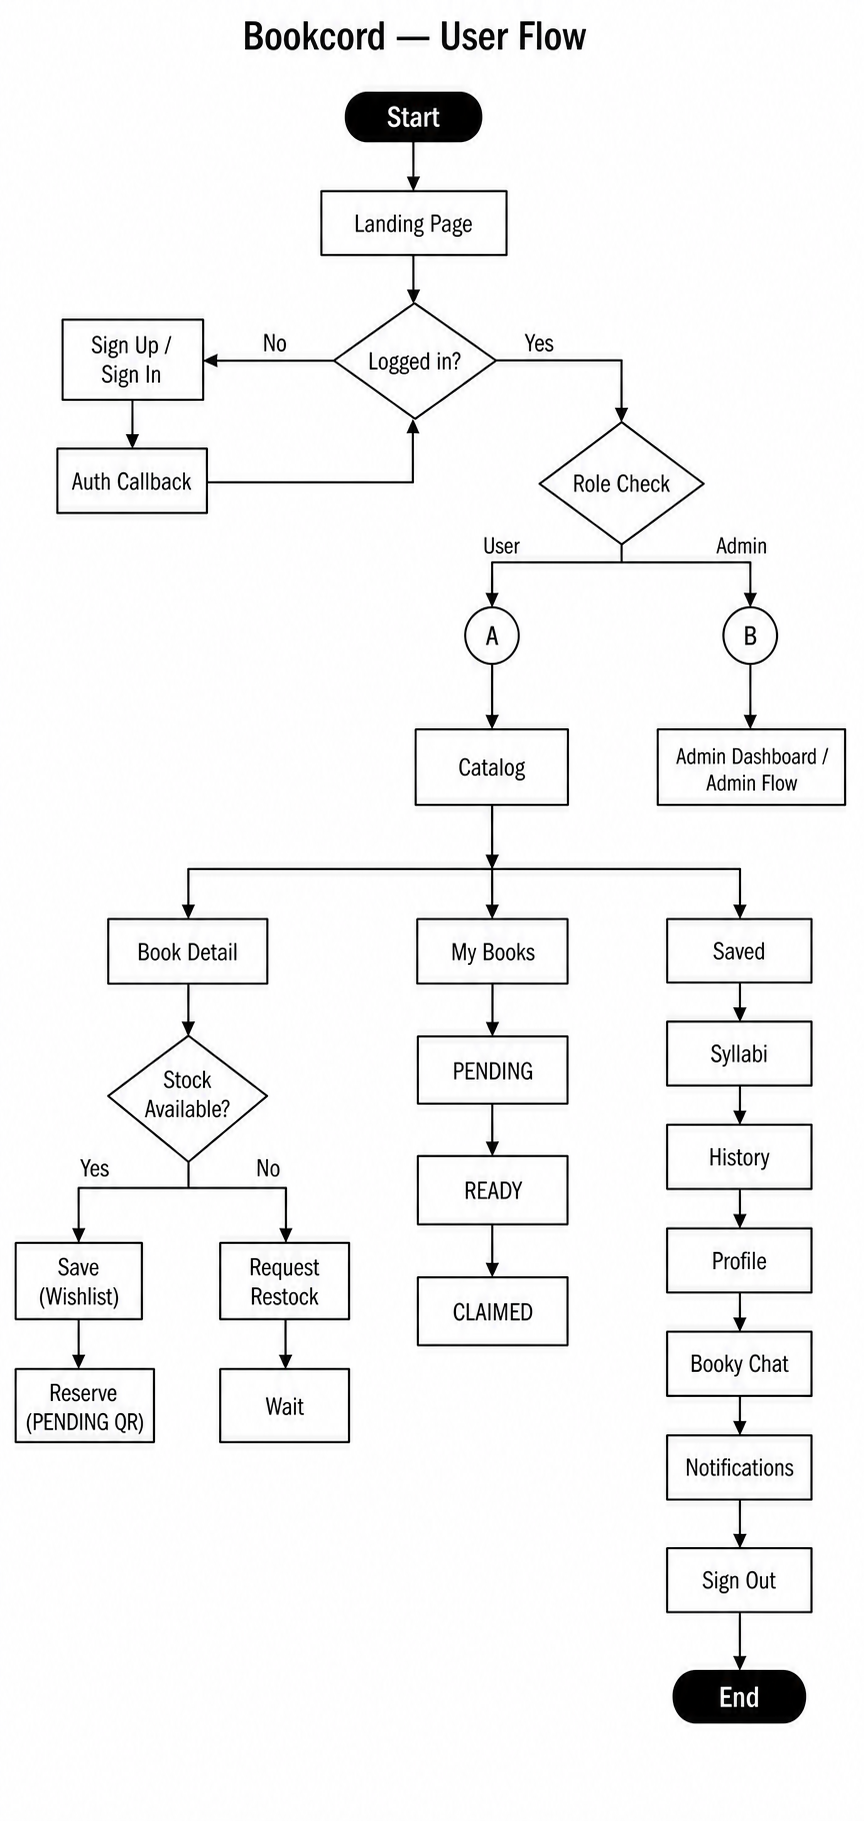
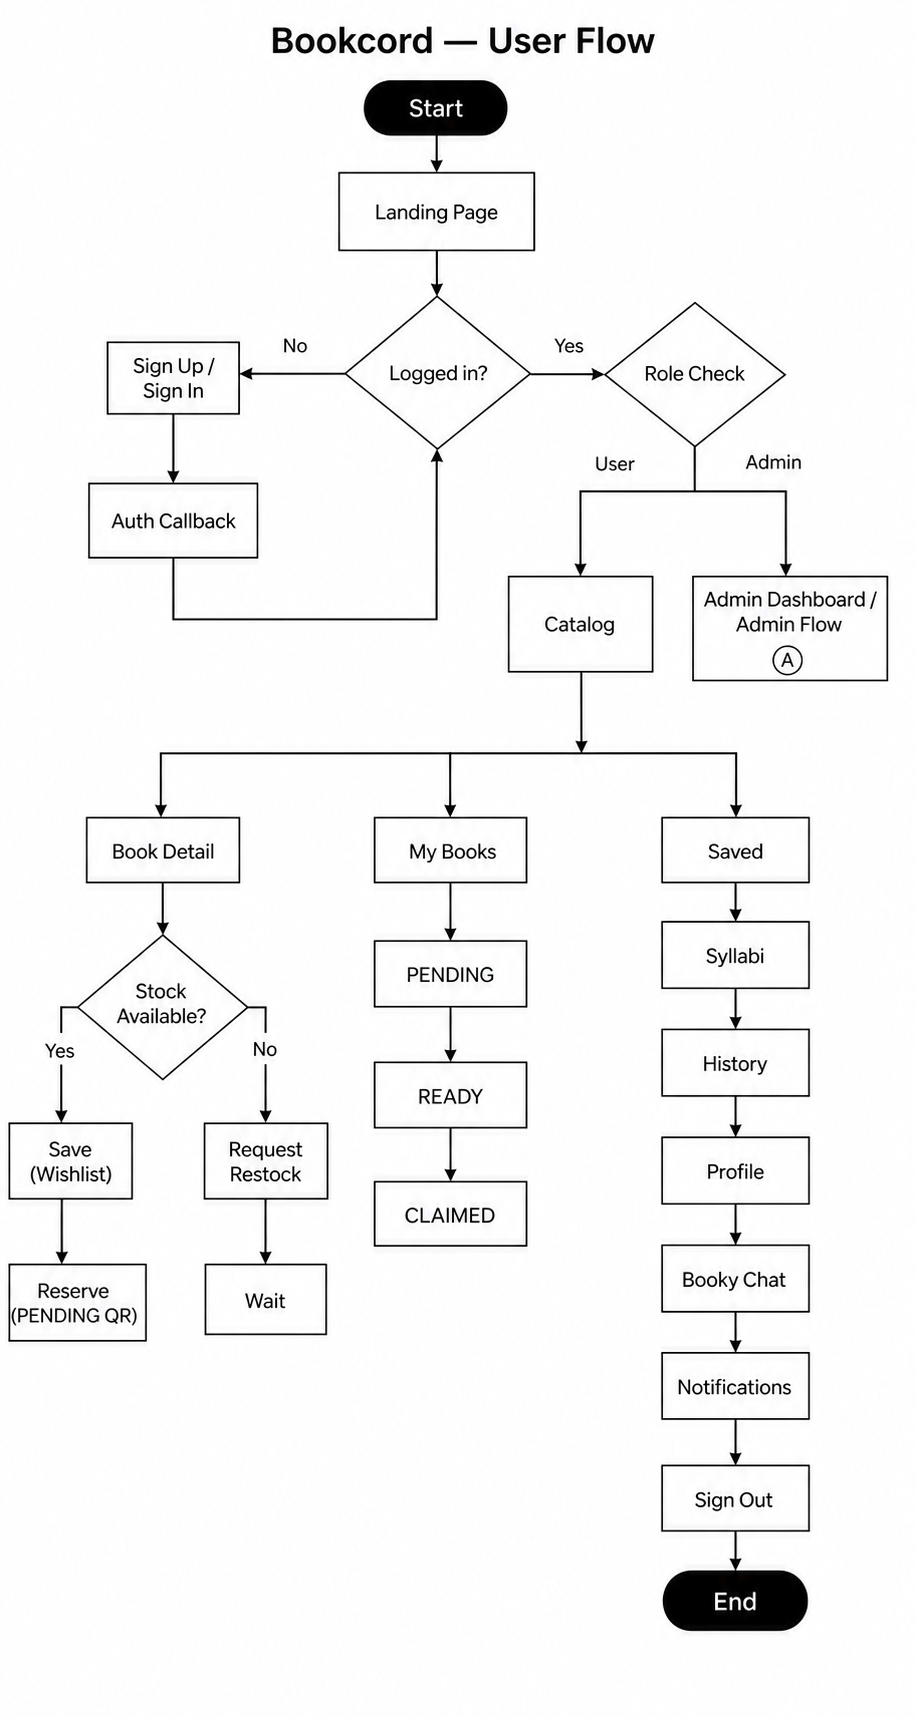
feat(flowcharts): embed letters inside dashboard nodes (A/B)
- User Flow (docs/user-flow.html + combined): remove separate A/B connector circles, now Admin Dashboard / Admin Flow rectangle contains circled A (Ⓐ) inside at bottom; Role Check --Admin--> Admin Dashboard directly, --User--> Catalog
- Admin Flow (docs/admin-flow.html + combined): Overview Dashboard rectangle now contains circled B (Ⓑ) inside; Role Check --Admin--> Dashboard, --User--> Catalog
- No other nodes/layout changed, B/W minimal style preserved
- Regenerated B/W PNGs to show A inside Admin Dashboard (User Flow) and B inside Overview Dashboard (Admin Flow)

diff --git a/Bookcord/flowcharts.html b/Bookcord/flowcharts.html
@@ -270,10 +270,8 @@ flowchart TD
     LANDING --> HAS_SESSION{Logged in<br>& session?}:::decision
     HAS_SESSION -->|No| CHOICE{Create or Sign in?}:::decision
     HAS_SESSION -->|Yes| ROLE_CHK{Role Check}:::decision
-    ROLE_CHK -->|Admin| CONN_B((B)):::connector
-    CONN_B --> TO_ADMIN[/→ /admin<br>Admin Dashboard<br>Admin Flow/]:::page
-    ROLE_CHK -->|User| CONN_A((A)):::connector
-    CONN_A --> CATALOG
+    ROLE_CHK -->|Admin| TO_ADMIN[/→ /admin<br>Admin Dashboard<br>Admin Flow<br>Ⓐ/]:::page
+    ROLE_CHK -->|User| CATALOG
 
     CHOICE -->|New student| SIGNUP[/Sign Up /signup<br>full_name • student_id • email • password<br>ICT • Grade 11/12/]:::page
     CHOICE -->|Existing| LOGIN[/Sign In /login<br>email+password / Google OAuth/]:::page
@@ -478,12 +476,10 @@ flowchart TD
     START([● Start Admin]):::start --> LOGIN[/Admin Sign In<br>/login?desk=admin<br>email • password • Google/]:::page
     LOGIN --> AUTH[/Auth Callback /auth/callback<br>updateSession middleware/]:::page
     AUTH --> GUARD{Role Check<br>requireAdmin?}:::decision
-    GUARD -->|User| CONN_A((A)):::connector
-    CONN_A --> REDIR[/→ /books<br>Catalog<br>User Flow/]:::page
-    GUARD -->|Admin| CONN_B((B)):::connector
-    CONN_B --> DASH
+    GUARD -->|User| REDIR[/→ /books<br>Catalog<br>User Flow/]:::page
+    GUARD -->|Admin| DASH
 
-    DASH[/📊 Overview /admin<br>Stat cards • Stock to watch • Latest reservations/]:::page
+    DASH[/📊 Overview /admin<br>Stat cards • Stock to watch • Latest reservations<br>Ⓑ/]:::page
     DASH --> DASH_DATA[Headlines via getAdminStats & inventory<br>Titles • On shelf • Checked out • Open/Ready<br>Attention = available ≤ minimum_stock]:::data
     DASH --> NAV{Choose desk}:::decision
 

diff --git a/Bookcord/public/docs/flowcharts.html b/Bookcord/public/docs/flowcharts.html
@@ -270,10 +270,8 @@ flowchart TD
     LANDING --> HAS_SESSION{Logged in<br>& session?}:::decision
     HAS_SESSION -->|No| CHOICE{Create or Sign in?}:::decision
     HAS_SESSION -->|Yes| ROLE_CHK{Role Check}:::decision
-    ROLE_CHK -->|Admin| CONN_B((B)):::connector
-    CONN_B --> TO_ADMIN[/→ /admin<br>Admin Dashboard<br>Admin Flow/]:::page
-    ROLE_CHK -->|User| CONN_A((A)):::connector
-    CONN_A --> CATALOG
+    ROLE_CHK -->|Admin| TO_ADMIN[/→ /admin<br>Admin Dashboard<br>Admin Flow<br>Ⓐ/]:::page
+    ROLE_CHK -->|User| CATALOG
 
     CHOICE -->|New student| SIGNUP[/Sign Up /signup<br>full_name • student_id • email • password<br>ICT • Grade 11/12/]:::page
     CHOICE -->|Existing| LOGIN[/Sign In /login<br>email+password / Google OAuth/]:::page
@@ -478,12 +476,10 @@ flowchart TD
     START([● Start Admin]):::start --> LOGIN[/Admin Sign In<br>/login?desk=admin<br>email • password • Google/]:::page
     LOGIN --> AUTH[/Auth Callback /auth/callback<br>updateSession middleware/]:::page
     AUTH --> GUARD{Role Check<br>requireAdmin?}:::decision
-    GUARD -->|User| CONN_A((A)):::connector
-    CONN_A --> REDIR[/→ /books<br>Catalog<br>User Flow/]:::page
-    GUARD -->|Admin| CONN_B((B)):::connector
-    CONN_B --> DASH
+    GUARD -->|User| REDIR[/→ /books<br>Catalog<br>User Flow/]:::page
+    GUARD -->|Admin| DASH
 
-    DASH[/📊 Overview /admin<br>Stat cards • Stock to watch • Latest reservations/]:::page
+    DASH[/📊 Overview /admin<br>Stat cards • Stock to watch • Latest reservations<br>Ⓑ/]:::page
     DASH --> DASH_DATA[Headlines via getAdminStats & inventory<br>Titles • On shelf • Checked out • Open/Ready<br>Attention = available ≤ minimum_stock]:::data
     DASH --> NAV{Choose desk}:::decision
 

diff --git a/docs/flowcharts.html b/docs/flowcharts.html
@@ -270,10 +270,8 @@ flowchart TD
     LANDING --> HAS_SESSION{Logged in<br>& session?}:::decision
     HAS_SESSION -->|No| CHOICE{Create or Sign in?}:::decision
     HAS_SESSION -->|Yes| ROLE_CHK{Role Check}:::decision
-    ROLE_CHK -->|Admin| CONN_B((B)):::connector
-    CONN_B --> TO_ADMIN[/→ /admin<br>Admin Dashboard<br>Admin Flow/]:::page
-    ROLE_CHK -->|User| CONN_A((A)):::connector
-    CONN_A --> CATALOG
+    ROLE_CHK -->|Admin| TO_ADMIN[/→ /admin<br>Admin Dashboard<br>Admin Flow<br>Ⓐ/]:::page
+    ROLE_CHK -->|User| CATALOG
 
     CHOICE -->|New student| SIGNUP[/Sign Up /signup<br>full_name • student_id • email • password<br>ICT • Grade 11/12/]:::page
     CHOICE -->|Existing| LOGIN[/Sign In /login<br>email+password / Google OAuth/]:::page
@@ -478,12 +476,10 @@ flowchart TD
     START([● Start Admin]):::start --> LOGIN[/Admin Sign In<br>/login?desk=admin<br>email • password • Google/]:::page
     LOGIN --> AUTH[/Auth Callback /auth/callback<br>updateSession middleware/]:::page
     AUTH --> GUARD{Role Check<br>requireAdmin?}:::decision
-    GUARD -->|User| CONN_A((A)):::connector
-    CONN_A --> REDIR[/→ /books<br>Catalog<br>User Flow/]:::page
-    GUARD -->|Admin| CONN_B((B)):::connector
-    CONN_B --> DASH
+    GUARD -->|User| REDIR[/→ /books<br>Catalog<br>User Flow/]:::page
+    GUARD -->|Admin| DASH
 
-    DASH[/📊 Overview /admin<br>Stat cards • Stock to watch • Latest reservations/]:::page
+    DASH[/📊 Overview /admin<br>Stat cards • Stock to watch • Latest reservations<br>Ⓑ/]:::page
     DASH --> DASH_DATA[Headlines via getAdminStats & inventory<br>Titles • On shelf • Checked out • Open/Ready<br>Attention = available ≤ minimum_stock]:::data
     DASH --> NAV{Choose desk}:::decision
 

diff --git a/Bookcord/public/docs/admin-flow.html b/Bookcord/public/docs/admin-flow.html
@@ -53,11 +53,9 @@ flowchart TD
     START([● Start Admin]):::start --> LOGIN[/Admin Sign In<br>/login?desk=admin<br>email • password • Google/]:::page
     LOGIN --> AUTH[/Auth Callback /auth/callback<br>updateSession middleware/]:::page
     AUTH --> GUARD{Role Check<br>requireAdmin?}:::decision
-    GUARD -->|User| CONN_A((A)):::connector
-    CONN_A --> REDIR[/→ /books<br>Catalog<br>User Flow/]:::page
-    GUARD -->|Admin| CONN_B((B)):::connector
-    CONN_B --> DASH
-    DASH[/📊 Overview /admin<br>Stat cards • Stock to watch • Latest reservations/]:::page
+    GUARD -->|User| REDIR[/→ /books<br>Catalog<br>User Flow/]:::page
+    GUARD -->|Admin| DASH
+    DASH[/📊 Overview /admin<br>Stat cards • Stock to watch • Latest reservations<br>Ⓑ/]:::page
     DASH --> DASH_DATA[Headlines via getAdminStats & inventory<br>Titles • On shelf • Checked out • Open/Ready<br>Attention = available ≤ minimum_stock]:::data
     DASH --> NAV{Choose desk}:::decision
     NAV -->|Manage → Inventory| INV

diff --git a/docs/admin-flow.html b/docs/admin-flow.html
@@ -53,11 +53,9 @@ flowchart TD
     START([● Start Admin]):::start --> LOGIN[/Admin Sign In<br>/login?desk=admin<br>email • password • Google/]:::page
     LOGIN --> AUTH[/Auth Callback /auth/callback<br>updateSession middleware/]:::page
     AUTH --> GUARD{Role Check<br>requireAdmin?}:::decision
-    GUARD -->|User| CONN_A((A)):::connector
-    CONN_A --> REDIR[/→ /books<br>Catalog<br>User Flow/]:::page
-    GUARD -->|Admin| CONN_B((B)):::connector
-    CONN_B --> DASH
-    DASH[/📊 Overview /admin<br>Stat cards • Stock to watch • Latest reservations/]:::page
+    GUARD -->|User| REDIR[/→ /books<br>Catalog<br>User Flow/]:::page
+    GUARD -->|Admin| DASH
+    DASH[/📊 Overview /admin<br>Stat cards • Stock to watch • Latest reservations<br>Ⓑ/]:::page
     DASH --> DASH_DATA[Headlines via getAdminStats & inventory<br>Titles • On shelf • Checked out • Open/Ready<br>Attention = available ≤ minimum_stock]:::data
     DASH --> NAV{Choose desk}:::decision
     NAV -->|Manage → Inventory| INV

diff --git a/Bookcord/public/docs/user-flow.html b/Bookcord/public/docs/user-flow.html
@@ -55,10 +55,8 @@ flowchart TD
     LANDING --> HAS_SESSION{Logged in<br>& session?}:::decision
     HAS_SESSION -->|No| CHOICE{Create or Sign in?}:::decision
     HAS_SESSION -->|Yes| ROLE_CHK{Role Check}:::decision
-    ROLE_CHK -->|Admin| CONN_B((B)):::connector
-    CONN_B --> TO_ADMIN[/→ /admin<br>Admin Dashboard<br>Admin Flow/]:::page
-    ROLE_CHK -->|User| CONN_A((A)):::connector
-    CONN_A --> CATALOG
+    ROLE_CHK -->|Admin| TO_ADMIN[/→ /admin<br>Admin Dashboard<br>Admin Flow<br>Ⓐ/]:::page
+    ROLE_CHK -->|User| CATALOG
     CHOICE -->|New student| SIGNUP[/Sign Up /signup<br>full_name • student_id • email • password<br>ICT • Grade 11/12/]:::page
     CHOICE -->|Existing| LOGIN[/Sign In /login<br>email+password / Google OAuth/]:::page
     SIGNUP --> AUTH_CB[/Auth Callback /auth/callback<br>Supabase session/]:::page

diff --git a/docs/user-flow.html b/docs/user-flow.html
@@ -55,10 +55,8 @@ flowchart TD
     LANDING --> HAS_SESSION{Logged in<br>& session?}:::decision
     HAS_SESSION -->|No| CHOICE{Create or Sign in?}:::decision
     HAS_SESSION -->|Yes| ROLE_CHK{Role Check}:::decision
-    ROLE_CHK -->|Admin| CONN_B((B)):::connector
-    CONN_B --> TO_ADMIN[/→ /admin<br>Admin Dashboard<br>Admin Flow/]:::page
-    ROLE_CHK -->|User| CONN_A((A)):::connector
-    CONN_A --> CATALOG
+    ROLE_CHK -->|Admin| TO_ADMIN[/→ /admin<br>Admin Dashboard<br>Admin Flow<br>Ⓐ/]:::page
+    ROLE_CHK -->|User| CATALOG
     CHOICE -->|New student| SIGNUP[/Sign Up /signup<br>full_name • student_id • email • password<br>ICT • Grade 11/12/]:::page
     CHOICE -->|Existing| LOGIN[/Sign In /login<br>email+password / Google OAuth/]:::page
     SIGNUP --> AUTH_CB[/Auth Callback /auth/callback<br>Supabase session/]:::page
